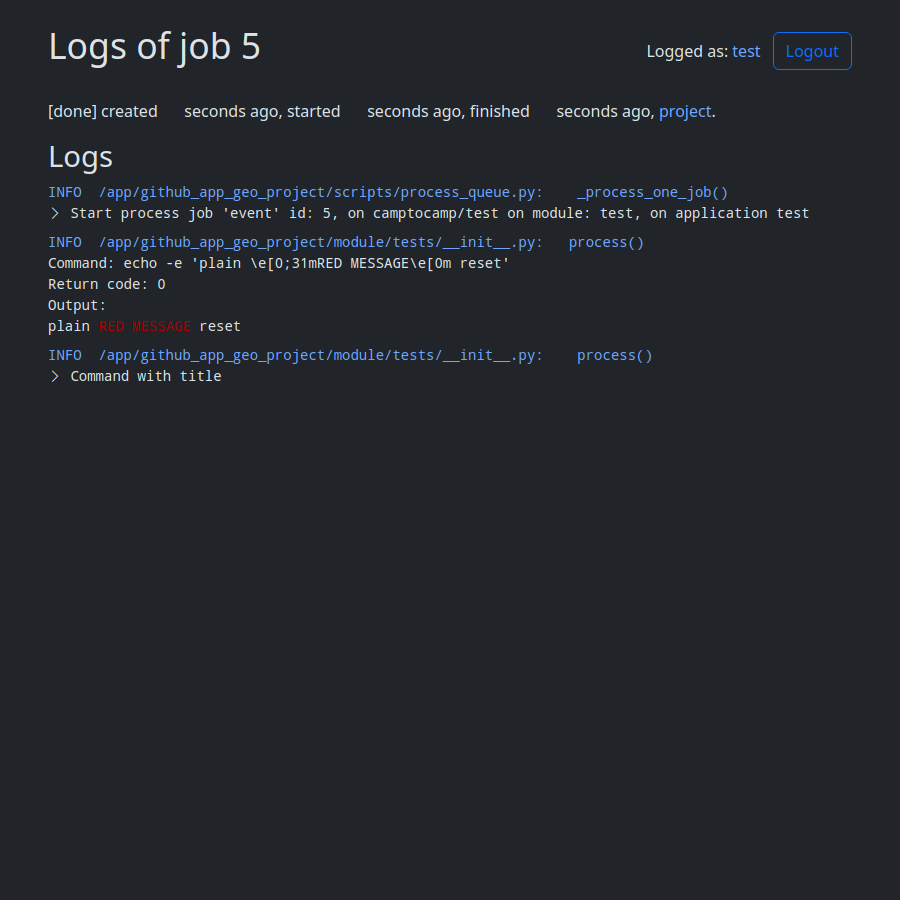
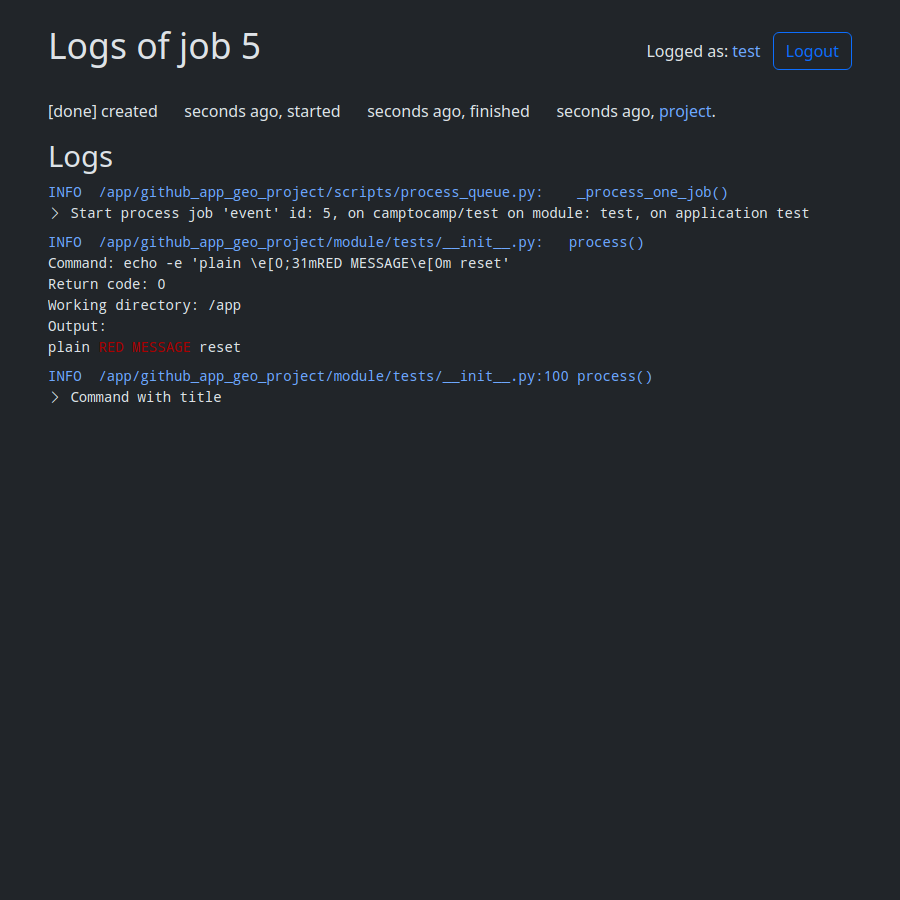
Add working directory in process messages

Changed region(s): [[0.0311, 0.3111, 0.5289, 0.4667], [0.56, 0.3733, 0.7156, 0.4356]]

diff --git a/github_app_geo_project/module/utils.py b/github_app_geo_project/module/utils.py
@@ -348,7 +348,11 @@ class AnsiProcessMessage(AnsiMessage):
         self.stdout = self._ansi_converter.convert(stdout, full=False)
         self.stderr = self._ansi_converter.convert(stderr, full=False)
 
-        message = [f"Command: {shlex.join(self.args)}", f"Return code: {returncode}"]
+        message = [
+            f"Command: {shlex.join(self.args)}",
+            f"Return code: {returncode}",
+            f"Working directory: {os.getcwd()}",
+        ]
         if self.stdout:
             message.append("Output:")
             message.append(self.stdout)
